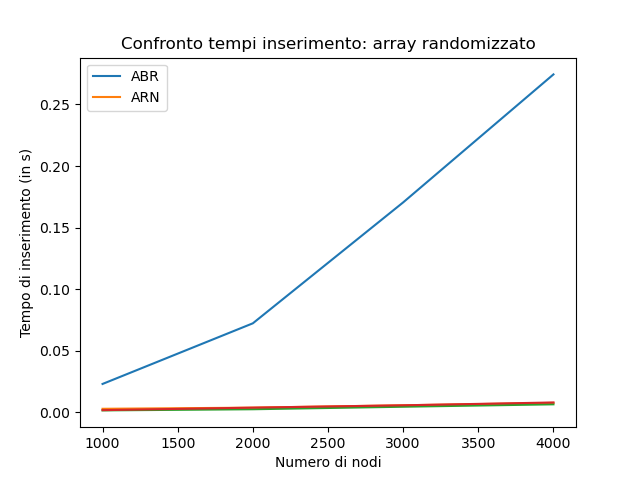
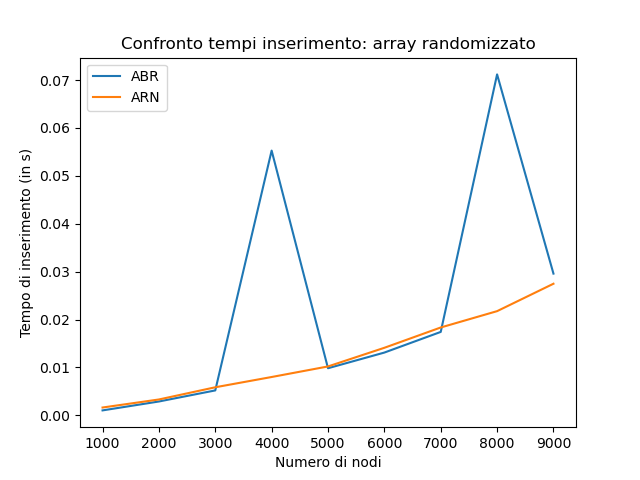
fixato colori aggiuntivi nei randomici

diff --git a/src/test.py b/src/test.py
@@ -30,7 +30,7 @@ def test(shuffle):
     search_time = []
     search_rb_time = []
 
-    for i in range(1, 5):
+    for i in range(1, 10): ## dovrebbe essere 1000
         n = i * 1000
         print("Il numero di chiavi è pari a: ", n)
         keys = np.arange(n)
@@ -91,6 +91,10 @@ def test(shuffle):
         plot_2.savefig('img//w_case/s.png')
         plot_3.savefig('img/w_case/h.png')
 
+    plt.clf()
+    plot_1.clear()
+    plot_2.clear()
+    plot_3.clear()
 
 
 def main():
